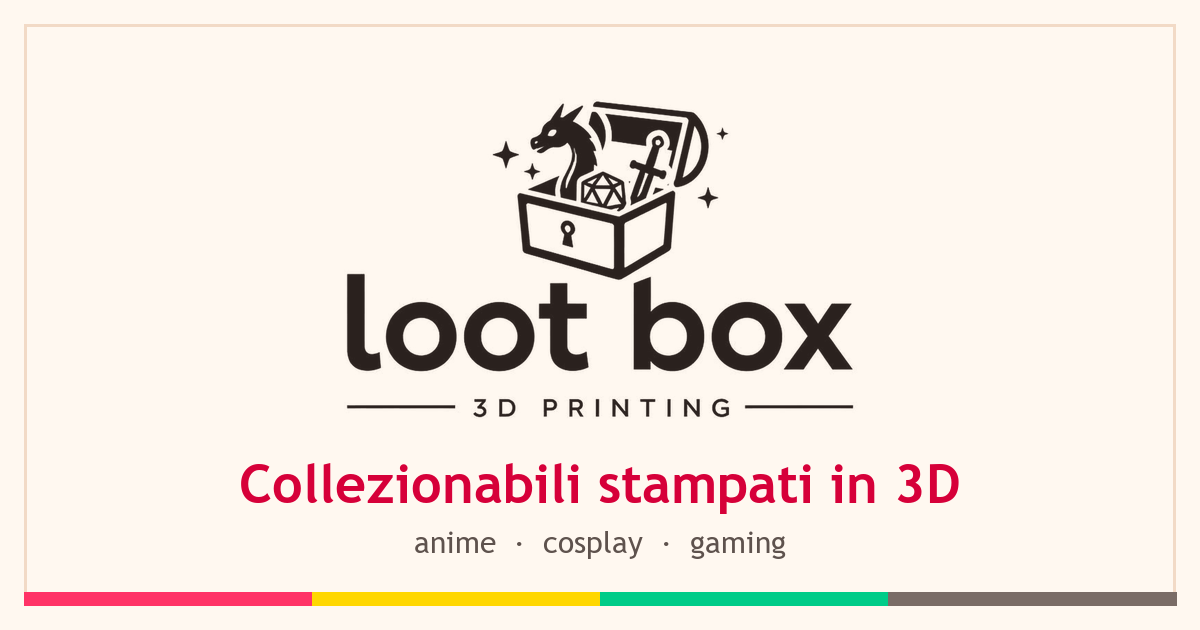
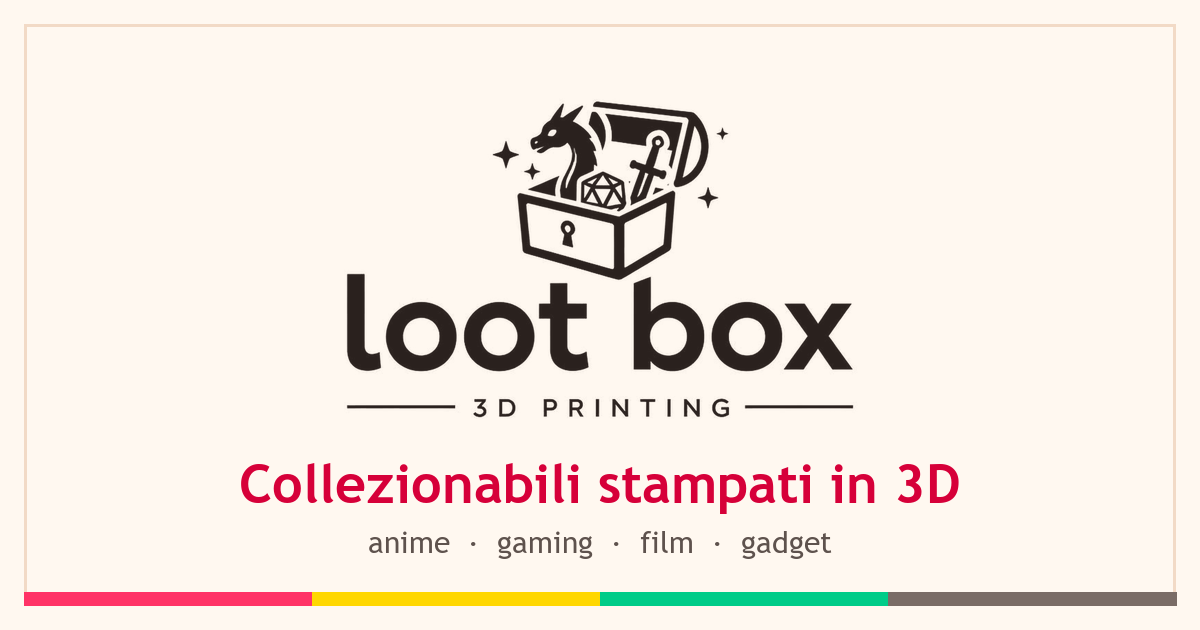
feat: broaden the brand copy and replace the cosplay category with gadgets
Client feedback: cosplay work is rare for the studio, and it prints film,
fantasy and home gadgets far more often. The copy now says so.

- hero, about, page title, meta and social descriptions: cosplay replaced
  with film, fantasy, gadgets and home objects
- og-image.png: only the "anime · cosplay · gaming" line is redrawn, as
  "anime · gaming · film · gadget", in the same Trebuchet MS 30px it was
  first set in (the original line re-renders pixel-identical)
- footer tagline: "Se lo immagini, lo stampiamo."
- category "Cosplay & Props" becomes "Gadget & Collezionabili"; the id,
  type and tier token are renamed cosplay -> gadget, keeping the gold tier
- the "N pezzi a catalogo" counts are removed: the studio has no catalogue
- gallery items re-sorted: Samehada to anime; cape buttons, cat glasses
  stand and Boromir pen holder to gadget

Changed region(s): [[0.3083, 0.8444, 0.7092, 0.9048]]

diff --git a/index.html b/index.html
@@ -32,10 +32,10 @@
       A second locale would need per-language tags emitted at build time; today
       there is one locale, so hardcoding Italian here is correct.
     -->
-    <title>Loot Box 3D — Collezionabili stampati in 3D per anime, cosplay e gaming</title>
+    <title>Loot Box 3D — Collezionabili e gadget stampati in 3D</title>
     <meta
       name="description"
-      content="Loot Box 3D crea pezzi da collezione stampati in 3D dedicati ad anime, cosplay e gaming: props, statuette e accessori su misura, rifiniti a mano da veri nerd per altri nerd."
+      content="Loot Box 3D crea pezzi stampati in 3D ispirati ad anime, gaming, film e mondi fantasy: statuette, props, gadget e oggetti per la casa su misura, rifiniti a mano da veri nerd per altri nerd."
     />
 
     <!-- The canonical address. www 301-redirects here at the host, and this
@@ -53,7 +53,7 @@
     />
     <meta
       property="og:description"
-      content="Statuette, props e accessori stampati in 3D e rifiniti a mano, dedicati ad anime, cosplay e gaming. Scrivici su Instagram."
+      content="Statuette, props, gadget e oggetti per la casa stampati in 3D e rifiniti a mano, ispirati ad anime, gaming, film e fantasy. Scrivici su Instagram."
     />
     <!-- Absolute URL, 1200x630: relative paths are not resolved by every
          scraper, and the dimensions are what the platforms crop to. -->
@@ -73,7 +73,7 @@
     />
     <meta
       name="twitter:description"
-      content="Statuette, props e accessori stampati in 3D e rifiniti a mano, dedicati ad anime, cosplay e gaming."
+      content="Statuette, props, gadget e oggetti per la casa stampati in 3D e rifiniti a mano, ispirati ad anime, gaming, film e fantasy."
     />
     <meta name="twitter:image" content="https://lootbox3d.it/og-image.png" />
   </head>

diff --git a/src/components/sections/CategoriesSection.tsx b/src/components/sections/CategoriesSection.tsx
@@ -14,7 +14,7 @@ const CATEGORIES_HEADING_ID = "categories-heading"
  * Archetype: expanding full-width bands (DESIGN.md 11.3).
  *
  * Not a card grid. Each category is an edge-to-edge horizontal band that
- * expands on hover or focus to reveal its description and catalogue size.
+ * expands on hover or focus to reveal its description.
  *
  * On touch and below `md:` every band renders permanently expanded — see the
  * `.band-body` rules in `main.scss`. Hover is not reachable without a pointer,
@@ -77,11 +77,8 @@ export function CategoriesSection() {
 
                 <div className="band-body">
                   <div>
-                    <p className="max-w-measure-body text-foreground-dim">
+                    <p className="max-w-measure-body pb-sp-5 text-foreground-dim">
                       {item.description}
-                    </p>
-                    <p className="type-meta pb-sp-5 pt-sp-2 text-muted-foreground">
-                      {item.count}
                     </p>
                   </div>
                 </div>

diff --git a/src/styles/_tokens.scss b/src/styles/_tokens.scss
@@ -72,7 +72,7 @@ $color-ring: $color-primary;
 // Decorative only: they tint borders, chips and spotlights. Chip and band text
 // always stays $color-foreground, which is what keeps 11px labels legible.
 $color-tier-anime: $color-accent-vivid;
-$color-tier-cosplay: $color-gold;
+$color-tier-gadget: $color-gold;
 $color-tier-gaming: $color-green-vivid;
 $color-tier-other: $color-muted-foreground;
 
@@ -206,7 +206,7 @@ $dur-shelf-b: 42s; // deliberately not a multiple of A, so the rows never sync
 
   // -- Colors: category tiers -------------------------------------------------
   --tier-anime: #{$color-tier-anime};
-  --tier-cosplay: #{$color-tier-cosplay};
+  --tier-gadget: #{$color-tier-gadget};
   --tier-gaming: #{$color-tier-gaming};
   --tier-other: #{$color-tier-other};
 

diff --git a/src/types/content.ts b/src/types/content.ts
@@ -11,15 +11,13 @@ export interface AboutPillar {
   description: string
 }
 
-export type CategoryId = "anime" | "cosplay" | "gaming" | "other"
+export type CategoryId = "anime" | "gadget" | "gaming" | "other"
 
 export interface CategoryItem {
   id: CategoryId
   name: string
   description: string
   tagline: string
-  /** Catalogue size, revealed when the band expands. PLACEHOLDER figure. */
-  count: string
 }
 
 export interface ShowcaseItem {

diff --git a/src/data/brand.ts b/src/data/brand.ts
@@ -16,7 +16,7 @@ export const BRAND_LINKS = {
  */
 export const categoryTierVars: Record<CategoryId, string> = {
   anime: "--tier-anime",
-  cosplay: "--tier-cosplay",
+  gadget: "--tier-gadget",
   gaming: "--tier-gaming",
   other: "--tier-other",
 }

diff --git a/DESIGN.md b/DESIGN.md
@@ -110,7 +110,7 @@ assumed.
 2. **`--accent-vivid`, `--gold` and `--green-vivid` are decoration, never text.** They fail AA on cream at body size. Use them as fills, rules, gradient stops, glow tints and shadow colours. When their hue must carry words, use `--primary`, `--gold-ink` and `--green` instead.
 3. **Gold is a background, not a foreground.** `--text` on a `--gold` fill is 11.22 and excellent. `--gold` on cream is 1.33 and invisible.
 4. **One accent per section.** Magenta leads; gold and green appear as the category coding and as small punctuation. Never all three competing in one viewport.
-5. **The category colour coding is fixed**: anime → `--accent-vivid`, cosplay → `--gold`, gaming → `--green-vivid`, other → `--text-tertiary`. These tint borders, chips and card glows only; the card's own text stays `--text` / `--text-secondary`.
+5. **The category colour coding is fixed**: anime → `--accent-vivid`, gadget → `--gold`, gaming → `--green-vivid`, other → `--text-tertiary`. These tint borders, chips and card glows only; the card's own text stays `--text` / `--text-secondary`.
 
 ---
 
@@ -796,16 +796,16 @@ The rail also carries a progress hairline that fills as the body scrolls.
 
 The four categories are not cards. Each is a **full-bleed horizontal band**
 stacked vertically. At rest a band shows its number, name and colour edge. On
-hover or focus it expands vertically to reveal the description and the item
-count, and its tier colour floods the left edge.
+hover or focus it expands vertically to reveal the description, and its tier
+colour floods the left edge. There is no item count: the studio has no
+catalogue, so a number there would be a claim with nothing behind it.
 
 ```
    +----------------------------------------------+
    | 01   ANIME                                -> |   <- 96px tall at rest
    +----------------------------------------------+
-   | 02   COSPLAY                              -> |
-   |      Elmi, armi e accessori su misura.       |   <- expanded: 200px
-   |      14 pezzi a catalogo                     |
+   | 02   GADGET & COLLEZIONABILI              -> |
+   |      Gadget, mini collezioni e arredo.       |   <- expanded
    +----------------------------------------------+
    | 03   GAMING                               -> |
    +----------------------------------------------+

diff --git a/README.md b/README.md
@@ -1,7 +1,7 @@
 # Loot Box 3D — landing page
 
 Single-page marketing site for **Loot Box 3D** ([@loot.box.3d](https://www.instagram.com/loot.box.3d/)),
-a 3D-printing studio making collectibles themed on anime, cosplay and gaming.
+a 3D-printing studio making collectibles and gadgets themed on anime, gaming, film and fantasy.
 
 Stack: Vite · React 19 · TypeScript · Tailwind CSS 3 · shadcn/ui · React Router 7 · i18next (SCSS for design tokens).
 
